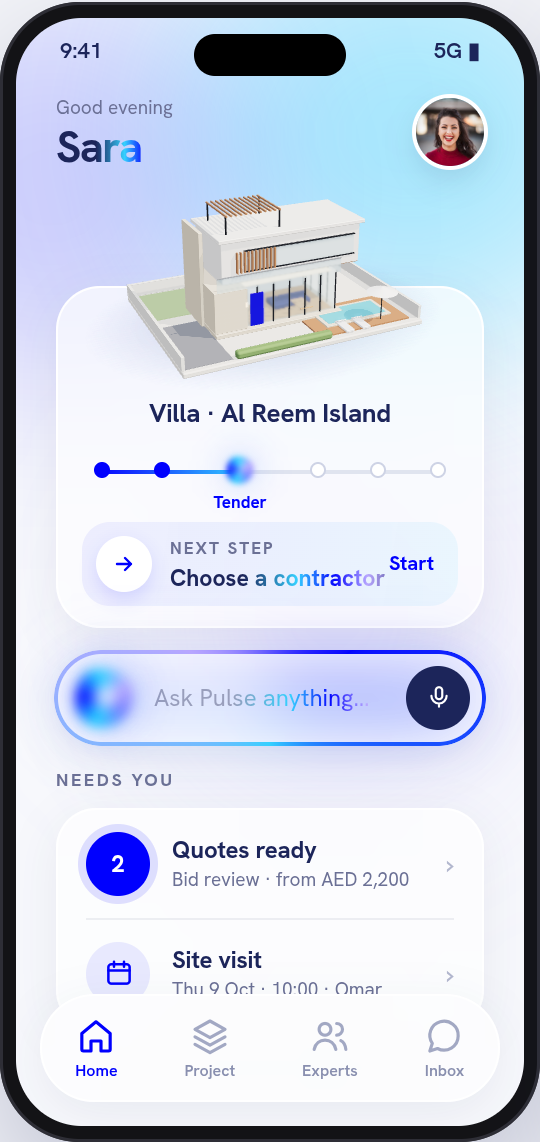
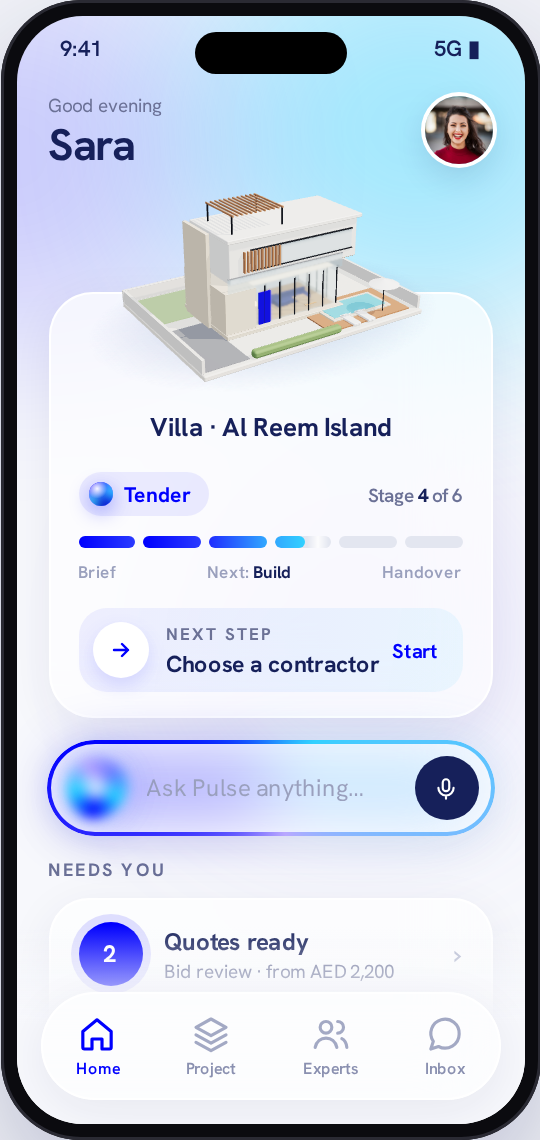
feat(mobile): Home stage track B1 (stage pill with round orb, six even segments, light sweep) and the round Pulse orb
Segments fill left to right (EASE_OUT), the current one eases to ~55% cyan with a periodic light sweep;
driven by the project stage. Home card spacing and 16px gutter per the batch 5 B1 phone; new 08-home reference.

diff --git a/mobile/src/fx/StageTrack.tsx b/mobile/src/fx/StageTrack.tsx
@@ -1,31 +1,87 @@
+import { useEffect } from 'react';
 import { View } from 'react-native';
 import { LinearGradient } from 'expo-linear-gradient';
+import Animated, { useSharedValue, useAnimatedStyle, withDelay, withRepeat, withSequence, withTiming, cancelAnimation } from 'react-native-reanimated';
 import { s } from '@/theme/scale';
 import { C } from '@/theme/tokens';
+import { DUR, EASE_IN_OUT, EASE_OUT } from '@/theme/motion';
 import { T } from '@/ui/T';
-import { Orb } from './Orb';
+import { RoundOrb } from './RoundOrb';
 import { STAGES } from '@/data/types';
 
-export function StageTrack({ stage }: { stage: 1 | 2 | 3 | 4 | 5 | 6 }) {
-  const pct = (stage - 1) / 5;
+type Stage = 1 | 2 | 3 | 4 | 5 | 6;
+const GREY = '#E3E6F0';
+const STAGGER = 90; // ms between segments filling left to right
+const NOW_FILL = 0.55; // mockup: the current segment's fill eases to 55%
+
+/** The labels under the bar: first stage · "Next: <stage after the current one>" · last stage. */
+export function stageLabels(stage: Stage) {
+  return { first: STAGES[0], next: stage < STAGES.length ? (STAGES as readonly string[])[stage] : null, last: STAGES[STAGES.length - 1] };
+}
+
+/** A done segment: its Pulse Blue fill glides from 0 to full width (✦ "segments fill left to right"; brand EASE_OUT, no overshoot).
+ *  The last done segment runs into cyan (mockup `.dn:nth-child(3)`), so blue flows into the current segment. */
+function Done({ i, last }: { i: number; last: boolean }) {
+  const p = useSharedValue(0);
+  useEffect(() => { p.value = withDelay(i * STAGGER, withTiming(1, { duration: DUR.reveal, easing: EASE_OUT })); }, []);
+  const st = useAnimatedStyle(() => ({ width: `${p.value * 100}%` }));
   return (
-    <View style={{ marginTop: s(10), marginHorizontal: s(6), height: s(28) }}>
-      <View style={{ position: 'absolute', left: s(4), right: s(4), top: s(10), height: s(2), borderRadius: s(2), backgroundColor: '#E1E5F0' }} />
-      <View style={{ position: 'absolute', left: s(4), top: s(10), height: s(2), width: `${pct * 100}%`, borderRadius: s(2), overflow: 'hidden' }}>
-        <LinearGradient colors={[C.blue, C.cyan]} start={{ x: 0, y: 0 }} end={{ x: 1, y: 0 }} style={{ flex: 1 }} />
+    <View style={seg}>
+      <Animated.View style={[{ height: '100%', borderRadius: s(6), overflow: 'hidden' }, st]}>
+        <LinearGradient colors={last ? ['#1F2CFF', '#31A8FF'] : [C.blue, '#2A3BFF']} start={{ x: 0, y: 0 }} end={{ x: 1, y: 0 }} style={{ flex: 1 }} />
+      </Animated.View>
+    </View>
+  );
+}
+
+/** The current segment: grey track, a cyan fill that eases to ~half after the done segments have filled,
+ *  and a soft white light that sweeps along it every 2.6s (✦). */
+function Now({ i }: { i: number }) {
+  const fill = useSharedValue(0);
+  const sweep = useSharedValue(0);
+  useEffect(() => {
+    fill.value = withDelay(i * STAGGER + 150, withTiming(NOW_FILL, { duration: 1400, easing: EASE_OUT }));
+    // mockup @keyframes sweep 2.6s ease-in-out: left -40% -> 60% over the first 70%, then rests off the fill
+    sweep.value = withDelay(1200, withRepeat(withSequence(withTiming(1, { duration: 1820, easing: EASE_IN_OUT }), withTiming(1, { duration: 780 }), withTiming(0, { duration: 0 })), -1));
+    return () => { cancelAnimation(sweep); };
+  }, []);
+  const fs = useAnimatedStyle(() => ({ width: `${fill.value * 100}%` }));
+  const ss = useAnimatedStyle(() => ({ left: `${-40 + sweep.value * 100}%` }));
+  return (
+    <View style={seg}>
+      <Animated.View style={[{ position: 'absolute', left: 0, top: 0, bottom: 0, borderRadius: s(6), overflow: 'hidden' }, fs]}>
+        <LinearGradient colors={['#31A8FF', C.cyan]} start={{ x: 0, y: 0 }} end={{ x: 1, y: 0 }} style={{ flex: 1 }} />
+      </Animated.View>
+      <Animated.View style={[{ position: 'absolute', top: 0, bottom: 0, width: '40%' }, ss]}>
+        <LinearGradient colors={['rgba(255,255,255,0)', 'rgba(255,255,255,0.9)', 'rgba(255,255,255,0)']} start={{ x: 0, y: 0 }} end={{ x: 1, y: 0 }} style={{ flex: 1 }} />
+      </Animated.View>
+    </View>
+  );
+}
+
+const seg = { flex: 1, height: s(6), borderRadius: s(6), backgroundColor: GREY, overflow: 'hidden' } as const;
+
+/** Batch 5 B1 "Segmented bar + stage pill": the stage pill with a small round orb and "Stage N of 6" opposite,
+ *  six even segments (done = Pulse Blue, current = part-filled cyan with a light sweep, future = grey) and
+ *  the first · Next: · last labels. Driven by the project's stage. */
+export function StageTrack({ stage }: { stage: Stage }) {
+  const { first, next, last } = stageLabels(stage);
+  return (
+    <View style={{ marginTop: s(14) }}>
+      <View style={{ flexDirection: 'row', alignItems: 'center', justifyContent: 'space-between' }}>
+        <View style={{ flexDirection: 'row', alignItems: 'center', gap: s(6), paddingVertical: s(4), paddingLeft: s(5), paddingRight: s(10), borderRadius: s(14), backgroundColor: 'rgba(0,0,254,0.07)' }}>
+          <RoundOrb size={12} ob={2} />
+          <T size={10.5} w={700} ls={-0.005} c={C.blue}>{STAGES[stage - 1]}</T>
+        </View>
+        <T size={9.5} w={600} c={C.mute}>Stage <T size={9.5} w={700} c={C.navy}>{String(stage)}</T> of {STAGES.length}</T>
       </View>
-      <View style={{ flexDirection: 'row', justifyContent: 'space-between' }}>
-        {STAGES.map((name, i) => {
-          const n = i + 1;
-          if (n === stage) return (
-            <View key={name} style={{ alignItems: 'center', marginTop: s(3) }}>
-              <Orb size={14} />
-              <T size={8.5} w={700} c={C.blue} style={{ marginTop: s(3) }}>{name}</T>
-            </View>
-          );
-          return <View key={name} style={{ width: s(8), height: s(8), borderRadius: s(4), marginTop: s(6), backgroundColor: n < stage ? C.blue : '#fff',
-            borderWidth: 1.5, borderColor: n < stage ? C.blue : '#CFD4E6' }} />;
-        })}
+      <View style={{ flexDirection: 'row', gap: s(4), marginTop: s(10) }}>
+        {STAGES.map((name, i) => i + 1 < stage ? <Done key={name} i={i} last={i + 2 === stage} /> : i + 1 === stage ? <Now key={name} i={i} /> : <View key={name} style={seg} />)}
+      </View>
+      <View style={{ flexDirection: 'row', justifyContent: 'space-between', marginTop: s(6) }}>
+        <T size={8.5} w={600} c={C.faint2}>{first}</T>
+        {next ? <T size={8.5} w={600} c={C.faint2}>Next: <T size={8.5} w={700} c={C.navy}>{next}</T></T> : <T size={8.5} w={700} c={C.navy}>Final stage</T>}
+        <T size={8.5} w={600} c={C.faint2}>{last}</T>
       </View>
     </View>
   );

diff --git a/mobile/src/fx/RoundOrb.tsx b/mobile/src/fx/RoundOrb.tsx
@@ -1,0 +1,62 @@
+import { Canvas, Circle, Group, RadialGradient, SweepGradient, Blur, Skia, vec, useClock } from '@shopify/react-native-skia';
+import { useDerivedValue } from 'react-native-reanimated';
+import { AccessibilityInfo, StyleProp, View, ViewStyle } from 'react-native';
+import { useEffect, useState } from 'react';
+import { s } from '@/theme/scale';
+
+const MIX = ['#0000FE', '#31D1FF', '#7A5CFF', '#3B5BFF', '#31D1FF', '#0000FE'];
+
+/** 0 -> 1 -> 0 over T seconds, like an ease-in-out alternate keyframe. */
+const wave = (t: number, T: number) => { 'worklet'; const p = (t % T) / T; return (1 - Math.cos(p * Math.PI * 2)) / 2; };
+
+/**
+ * Batch 5 perfectly round Pulse orb (mockup `.ro`): a Pulse Blue disc clipped to a circle, a blurred conic mix
+ * (#0000FE, #31D1FF, #7A5CFF, #3b5bff) turning once every 5s inside it, a top-left shine and a soft bottom shade,
+ * a 0.5px white inner rim and a blue drop shadow. `glow` adds the breathing outer glow (`.gl`, 3.2s).
+ * `ob` is the conic blur in mockup px (`--ob`, default 3).
+ */
+export function RoundOrb({ size, glow, ob = 3, style }: { size: number; glow?: boolean; ob?: number; style?: StyleProp<ViewStyle> }) {
+  const [reduce, setReduce] = useState(false);
+  useEffect(() => { AccessibilityInfo.isReduceMotionEnabled().then(setReduce); }, []);
+  const clock = useClock();
+  const D = s(size); const k = D / size; const r = D / 2;
+  const pad = D * 0.6; const W = D + pad * 2; const c = W / 2;
+  const spin = useDerivedValue(() => [{ rotate: reduce ? 0 : ((clock.value / 5000) % 1) * Math.PI * 2 }]);
+  const breathe = useDerivedValue(() => [{ scale: 1 + 0.06 * (reduce ? 0 : wave(clock.value / 1000, 3.2)) }]);
+  const clip = Skia.RRectXY(Skia.XYWHRect(pad, pad, D, D), r, r);
+  const hx = pad + D * 0.34, hy = pad + D * 0.28;
+  const bx = pad + D * 0.6, by = pad + D * 1.1;
+  return (
+    <View style={[{ width: D, height: D }, style]} pointerEvents="none">
+      <Canvas style={{ position: 'absolute', width: W, height: W, left: -pad, top: -pad }}>
+        {glow && (
+          <Group origin={vec(c, c)} transform={breathe}>
+            <Circle cx={c} cy={c} r={D * 1.05}>
+              <RadialGradient c={vec(c, c)} r={D * 1.05} colors={['rgba(49,209,255,0.5)', 'rgba(0,0,254,0.14)', 'rgba(0,0,254,0)']} positions={[0, 0.45 / 0.7, 1]} />
+            </Circle>
+          </Group>
+        )}
+        {/* box-shadow 0 3px 10px rgba(0,0,254,.35) */}
+        <Circle cx={c} cy={c + 3 * k} r={r} color="rgba(0,0,254,0.35)"><Blur blur={5 * k} /></Circle>
+        <Group clip={clip}>
+          <Circle cx={c} cy={c} r={r} color="#0000FE" />
+          <Group origin={vec(c, c)} transform={spin}>
+            <Circle cx={c} cy={c} r={D * 0.75}>
+              <SweepGradient c={vec(c, c)} colors={MIX} />
+              <Blur blur={ob * k * 0.5} />
+            </Circle>
+          </Group>
+          {/* CSS radial stops are % of the distance to the farthest corner: 42% of 0.98D, 60% of 1.25D */}
+          <Circle cx={hx} cy={hy} r={D * 0.41}>
+            <RadialGradient c={vec(hx, hy)} r={D * 0.41} colors={['rgba(255,255,255,0.95)', 'rgba(255,255,255,0)']} />
+          </Circle>
+          <Circle cx={bx} cy={by} r={D * 0.75}>
+            <RadialGradient c={vec(bx, by)} r={D * 0.75} colors={['rgba(22,32,90,0.35)', 'rgba(22,32,90,0)']} />
+          </Circle>
+          <Circle cx={c} cy={c} r={r - 0.25 * k} style="stroke" strokeWidth={0.5 * k} color="rgba(255,255,255,0.55)" />
+        </Group>
+      </Canvas>
+    </View>
+  );
+}
+export default RoundOrb;

diff --git a/mobile/src/app/(client)/(tabs)/home.tsx b/mobile/src/app/(client)/(tabs)/home.tsx
@@ -63,21 +63,21 @@ export default function Home() {
   }, []));
   const b = BUILDINGS.find((x) => x.id === projectType)!;
   return (
-    <Screen bg="aurora3" overlay={flying ? (
+    <Screen bg="aurora3" px={16} overlay={flying ? (
       <Animated.View pointerEvents="none" style={[{ position: 'absolute', left: flying.x, top: flying.y, width: s(30), height: s(30) }, fly]}><Orb size={30} /></Animated.View>
     ) : undefined}>
       <Animated.View style={[{ flex: 1 }, page]}>
       <ScrollView showsVerticalScrollIndicator={false} contentContainerStyle={{ paddingBottom: s(90) }}>
         <Rise index={0} blur={false}>
-          <View style={{ flexDirection: 'row', justifyContent: 'space-between', alignItems: 'center', paddingTop: s(9) }}>
+          <View style={{ flexDirection: 'row', justifyContent: 'space-between', alignItems: 'center', paddingTop: s(8) }}>
             <View><T size={9.5} c={C.mute}>Good evening</T><GradientText shimmer size={22} w={700} ls={-0.035} style={{ marginTop: s(-1) }}>Sara</GradientText></View>
             <Pressable onPress={() => router.push('/profile')}><Avatar photo="sara" size={34} ring="white" /></Pressable>
           </View>
         </Rise>
 
-        <Rise index={1} r={22} style={{ marginTop: s(54.5) }}>
-          <Glass r={22} style={{ paddingTop: s(54), paddingHorizontal: s(12), paddingBottom: s(10), overflow: 'visible' }}>
-            <View style={{ position: 'absolute', left: '50%', marginLeft: -s(95), top: -s(74), width: s(190), height: s(140) }}>
+        <Rise index={1} r={22} style={{ marginTop: s(58.5) }}>
+          <Glass r={22} style={{ paddingTop: s(58), paddingHorizontal: s(14), paddingBottom: s(12), overflow: 'visible' }}>
+            <View style={{ position: 'absolute', left: '50%', marginLeft: -s(95), top: -s(78), width: s(190), height: s(140) }}>
               <ModelView model={b.id} lights={0.5} radius={9.4} target={[0, 2.2, 0]} height={0.42} spin={0.15} shadows={false} />
             </View>
             <T size={13} w={700} ls={-0.01} align="center">{b.name} · Al Reem Island</T>
@@ -85,7 +85,7 @@ export default function Home() {
             <Rise index={3} spring blur={false}>
               <Pressable onPress={() => router.push('/quotes?request=req-bid')}>
                 <LinearGradient colors={['rgba(0,0,254,0.06)', 'rgba(49,209,255,0.08)']} start={{ x: 0, y: 0 }} end={{ x: 1, y: 0.3 }}
-                  style={{ marginTop: s(8), borderRadius: s(14), paddingVertical: s(7), paddingLeft: s(7), paddingRight: s(18), marginRight: -s(6), flexDirection: 'row', alignItems: 'center', gap: s(9) }}>
+                  style={{ marginTop: s(12), borderRadius: s(14), paddingVertical: s(7), paddingLeft: s(7), paddingRight: s(12), flexDirection: 'row', alignItems: 'center', gap: s(9) }}>
                   <View style={{ width: s(28), height: s(28), borderRadius: s(14), backgroundColor: '#fff', alignItems: 'center', justifyContent: 'center',
                     ...shadow(C.blue, 0.12, s(5)) }}><Icon name="arrowR" size={12} color={C.blue} stroke={2.4} /></View>
                   <View style={{ flex: 1, minWidth: 0, alignItems: 'flex-start' }}>

diff --git a/mobile/__tests__/stageTrack.test.tsx b/mobile/__tests__/stageTrack.test.tsx
@@ -1,0 +1,30 @@
+import { render, screen } from '@testing-library/react-native';
+import { StageTrack, stageLabels } from '@/fx/StageTrack';
+
+jest.mock('@/fx/RoundOrb', () => {
+  const { View: mockView } = require('react-native');
+  const mockOrb = () => require('react').createElement(mockView, { testID: 'RoundOrb' });
+  return { __esModule: true, RoundOrb: mockOrb, default: mockOrb };
+});
+
+test('B1 stage track: pill names the current stage, "Stage N of 6", first · Next · last labels', async () => {
+  await render(<StageTrack stage={3} />);
+  expect(screen.getByText('Tender')).toBeTruthy();
+  expect(screen.getByText('Stage 3 of 6')).toBeTruthy();
+  expect(screen.getByText('Planning')).toBeTruthy();
+  expect(screen.getByText('Next: Contractor')).toBeTruthy();
+  expect(screen.getByText('Handover')).toBeTruthy();
+  expect(screen.getByTestId('RoundOrb')).toBeTruthy();
+});
+
+test('B1 stage track follows the project stage (not hard-coded)', async () => {
+  await render(<StageTrack stage={5} />);
+  expect(screen.getByText('Construction')).toBeTruthy();
+  expect(screen.getByText('Stage 5 of 6')).toBeTruthy();
+  expect(screen.getByText('Next: Handover')).toBeTruthy();
+});
+
+test('stageLabels: the last stage has no next stage', () => {
+  expect(stageLabels(6)).toEqual({ first: 'Planning', next: null, last: 'Handover' });
+  expect(stageLabels(1).next).toBe('Design');
+});

diff --git a/mobile/__tests__/home.test.tsx b/mobile/__tests__/home.test.tsx
@@ -5,6 +5,7 @@ import Profile from '@/app/(client)/(tabs)/profile';
 import { useDemo } from '@/store/demo';
 
 jest.mock('expo-router', () => ({ router: { push: jest.fn(), replace: jest.fn(), back: jest.fn() }, useLocalSearchParams: () => ({}), useFocusEffect: jest.fn() }));
+jest.mock('@/fx/RoundOrb', () => { const { View: mockView } = require('react-native'); const mockOrb = () => require('react').createElement(mockView, { testID: 'RoundOrb' }); return { __esModule: true, RoundOrb: mockOrb, default: mockOrb }; });
 beforeEach(() => { useDemo.getState().resetDemo(); jest.clearAllMocks(); });
 
 test('Home shows the approved content and wires the actions', async () => {
